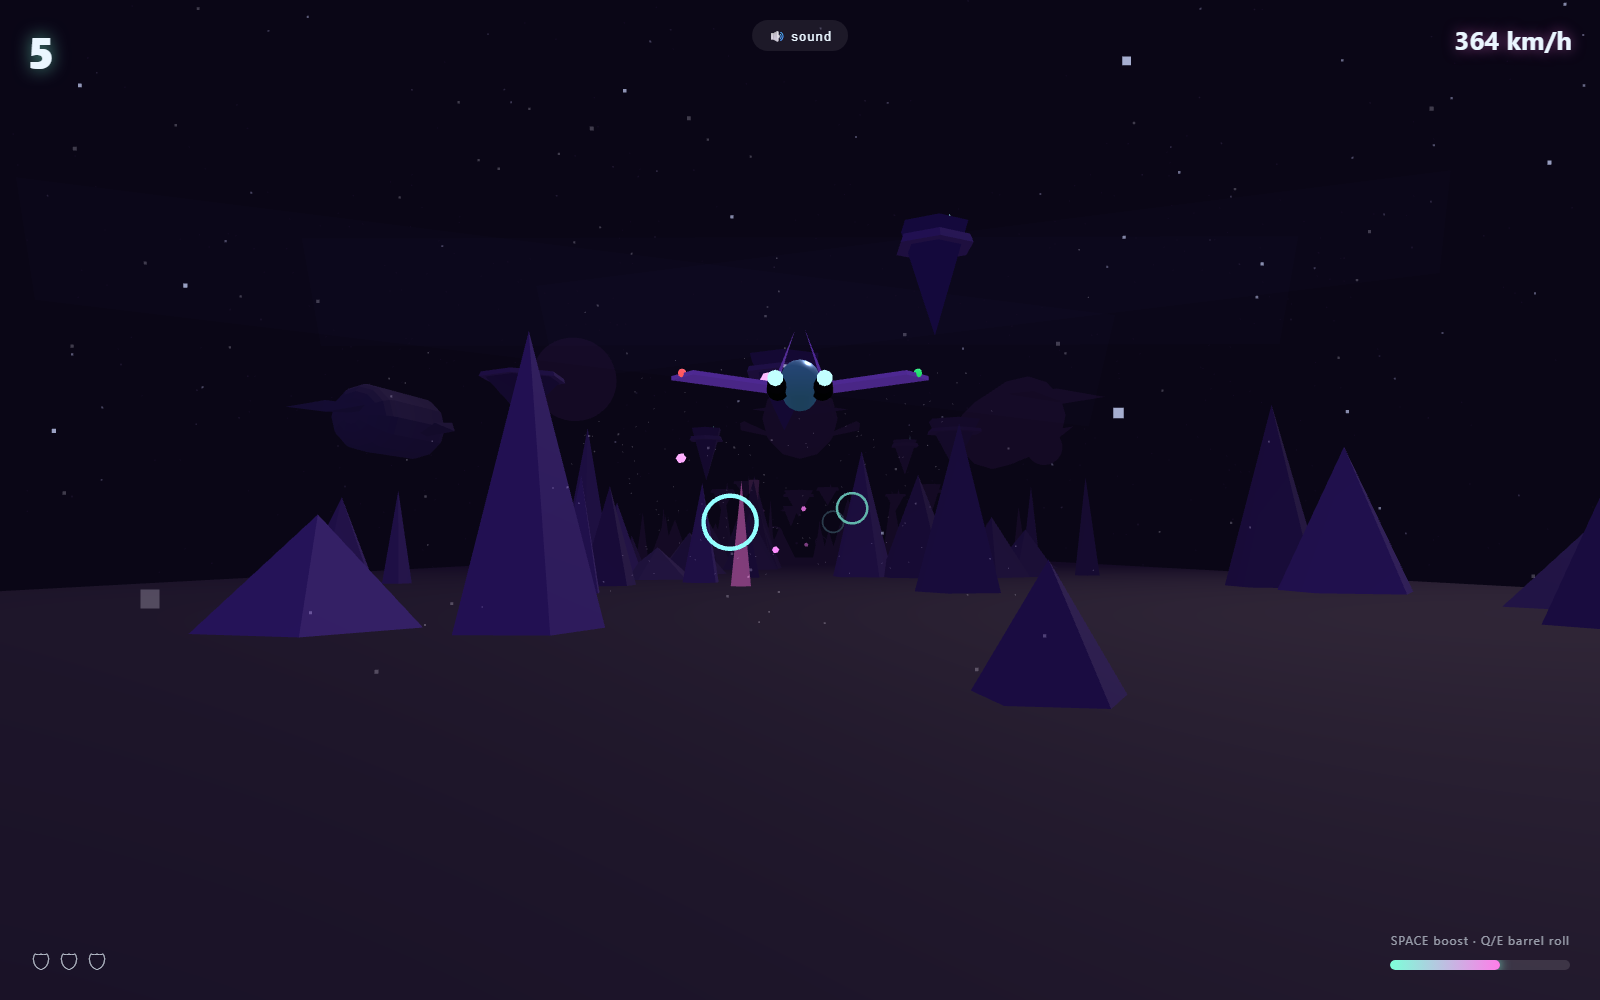
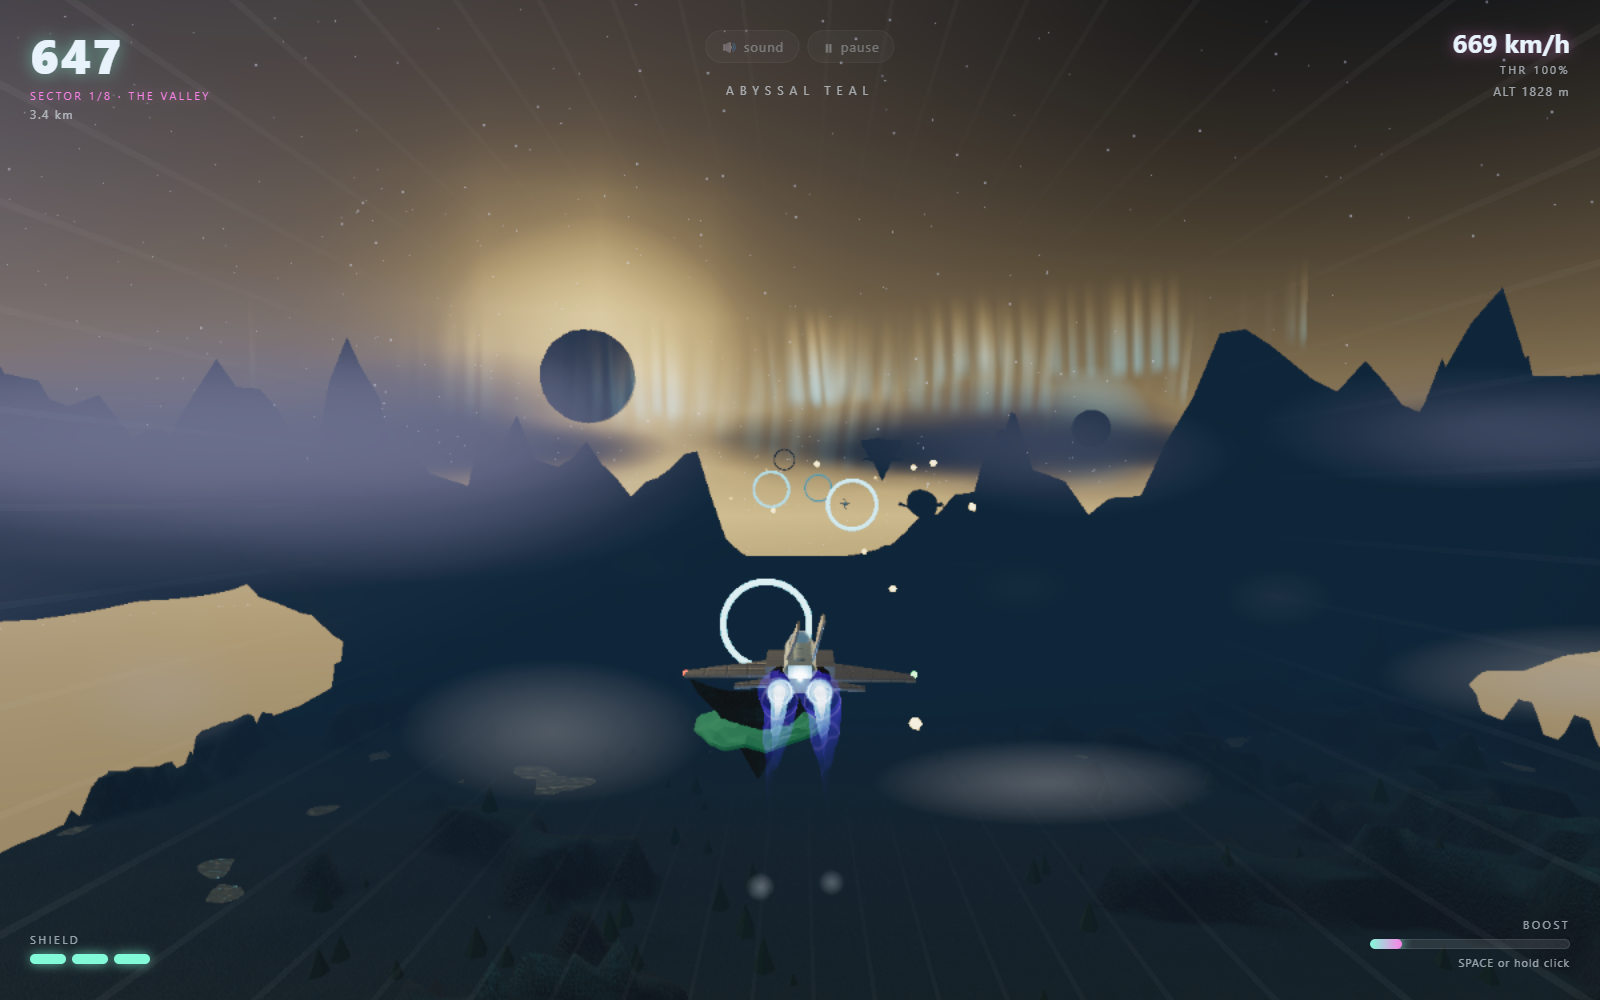
Afterburn v2: the dream grew a war — Sortie mode, real flight model, eight sectors; fresh in-game captures

diff --git a/lib/projects.ts b/lib/projects.ts
@@ -435,36 +435,41 @@ export const projects: Project[] = [
     badge: "SIDE QUEST 2026 — PROCEDURAL 3D FLIGHT",
     badgeTone: "cyan",
     tagline:
-      "An endless flight through a dream that never quite resolves. Everything procedural, everything synthesized — no assets, just code. Playable right here.",
+      "An endless flight through a dream that never quite resolves — and now there's a war in it. Two modes, eight sectors, zero assets, just code. Playable right here.",
     cardBlurb:
-      "Endless dream-flight in Three.js — thread neon gates, dodge crystal spires, chase the sky whales. Zero assets, all procedural.",
+      "Dream-flight turned dogfight in Three.js — thread neon gates in Flight, splash five waves of bandits in Sortie. Zero assets, all procedural.",
     cardCaption: "Afterburn — click to fly",
     cardSrc: "/img/afterburn-title.png",
     chips: ["Three.js", "TypeScript", "Procedural Generation", "Game Dev"],
     heroCaption: "Afterburn — an endless flight through a dream",
     heroSrc: "/img/afterburn-flight.png",
     problem:
-      "Sometimes you build robots and battery packs; sometimes you need to fly through a neon dream at 364 km/h. A weekend experiment in how much atmosphere pure code can conjure — no 3D models, no textures, no audio files.",
+      "Sometimes you build robots and battery packs; sometimes you need to fly through a neon dream at 600 km/h. What started as a weekend experiment in pure-code atmosphere grew a real flight model, a combat mode, and a landing sequence — still no 3D models, no textures, no audio files.",
     solution:
-      "A vanilla Three.js endless flyer where the entire world is procedural: low-poly terrain, crystal spires, drifting sky whales, and a palette that re-colours itself every ~26 seconds — violet dusk, abyssal teal, ember rose, mint hollow. Mouse steers, SPACE boosts, Q/E barrel-rolls grant brief invulnerability.",
+      "A vanilla Three.js flyer, rebuilt from the ground up. Flight mode is the endless run — gates, streaks, crystal, the odd whale in the haze. Sortie mode is five waves of hostile jets and then you have to land it. The jet flies to your cursor with throttle, rudder, airbrake and afterburner on the keys, and the world cycles through eight named sectors and four dream palettes — violet dusk, abyssal teal, ember rose, mint hollow.",
     demoUrl: "https://afterburn-game.vercel.app",
     features: [
-      "Fully procedural world — no imported assets, audio synthesized in-code",
-      "Neon gates with streak multipliers; boost meter refilled by clean flying",
-      "Barrel rolls (Q/E) with brief invulnerability frames",
-      "Crystal spire obstacles and three shields",
-      "World re-colours itself every ~26 seconds across four dream palettes",
+      "Two modes — Flight (endless gates and streaks) and Sortie (five waves of bandits, then a landing graded TOUCHDOWN or HARD LANDING)",
+      "Real flight model: throttle, rudder, airbrake, afterburner, aileron rolls",
+      "Named maneuvers — cobra, immelmann, split-S, and the reversal for shaking a bandit off your six",
+      "Combat kit: cannon, lock-on missiles (FOX TWO), and a white-crystal laser that sweeps for six seconds",
+      "Sortie HUD with radar, rear-view mirror, wave counter and kill tally",
+      "Eight procedural sectors — the valley, the canyon, the mirror sea, spire forest, the graveyard…",
+      "Fully procedural world in four dream palettes — no imported assets, audio synthesized in-code",
       "Best score persists on-device",
     ],
     stack: ["Three.js", "TypeScript", "Vite", "Web Audio API"],
     challenges: [
-      "Making an infinite world feel varied using only procedural generation",
-      "Tuning flight feel — boost, banking, and roll — until it reads as a dream, not a sim",
+      "Making an infinite world feel varied using only procedural generation — eight sector recipes mixing canyons, lakes, spires and monoliths",
+      "Tuning a flight model that reads as a dream in Flight mode and holds up in a dogfight in Sortie",
+      "Combat legibility with mouse-only aim — lock cones, threat callouts, and a rear-view mirror instead of a hard camera swing",
     ],
     lessons: ["Constraints breed atmosphere: zero assets forces every visual to earn its place in code"],
+    next: "Started as a one-mode dream-flyer; rebuilt in September 2026 with a real flight model, Sortie combat, and eight named sectors.",
     gallery: [
-      { caption: "Threading the gates at 364 km/h — streak building", src: "/img/afterburn-flight.png" },
-      { caption: "The title screen — click to fly", src: "/img/afterburn-title.png" },
+      { caption: "Full afterburner through the valley — 669 km/h, abyssal teal", src: "/img/afterburn-flight.png" },
+      { caption: "Sortie, wave 1 — bandit locked, tracers out, one hostile on the scope", src: "/img/afterburn-sortie.png" },
+      { caption: "The title screen — the attract reel drifting through sector 01", src: "/img/afterburn-title.png" },
     ],
     links: [
       { label: "Play Live", href: "https://afterburn-game.vercel.app" },
